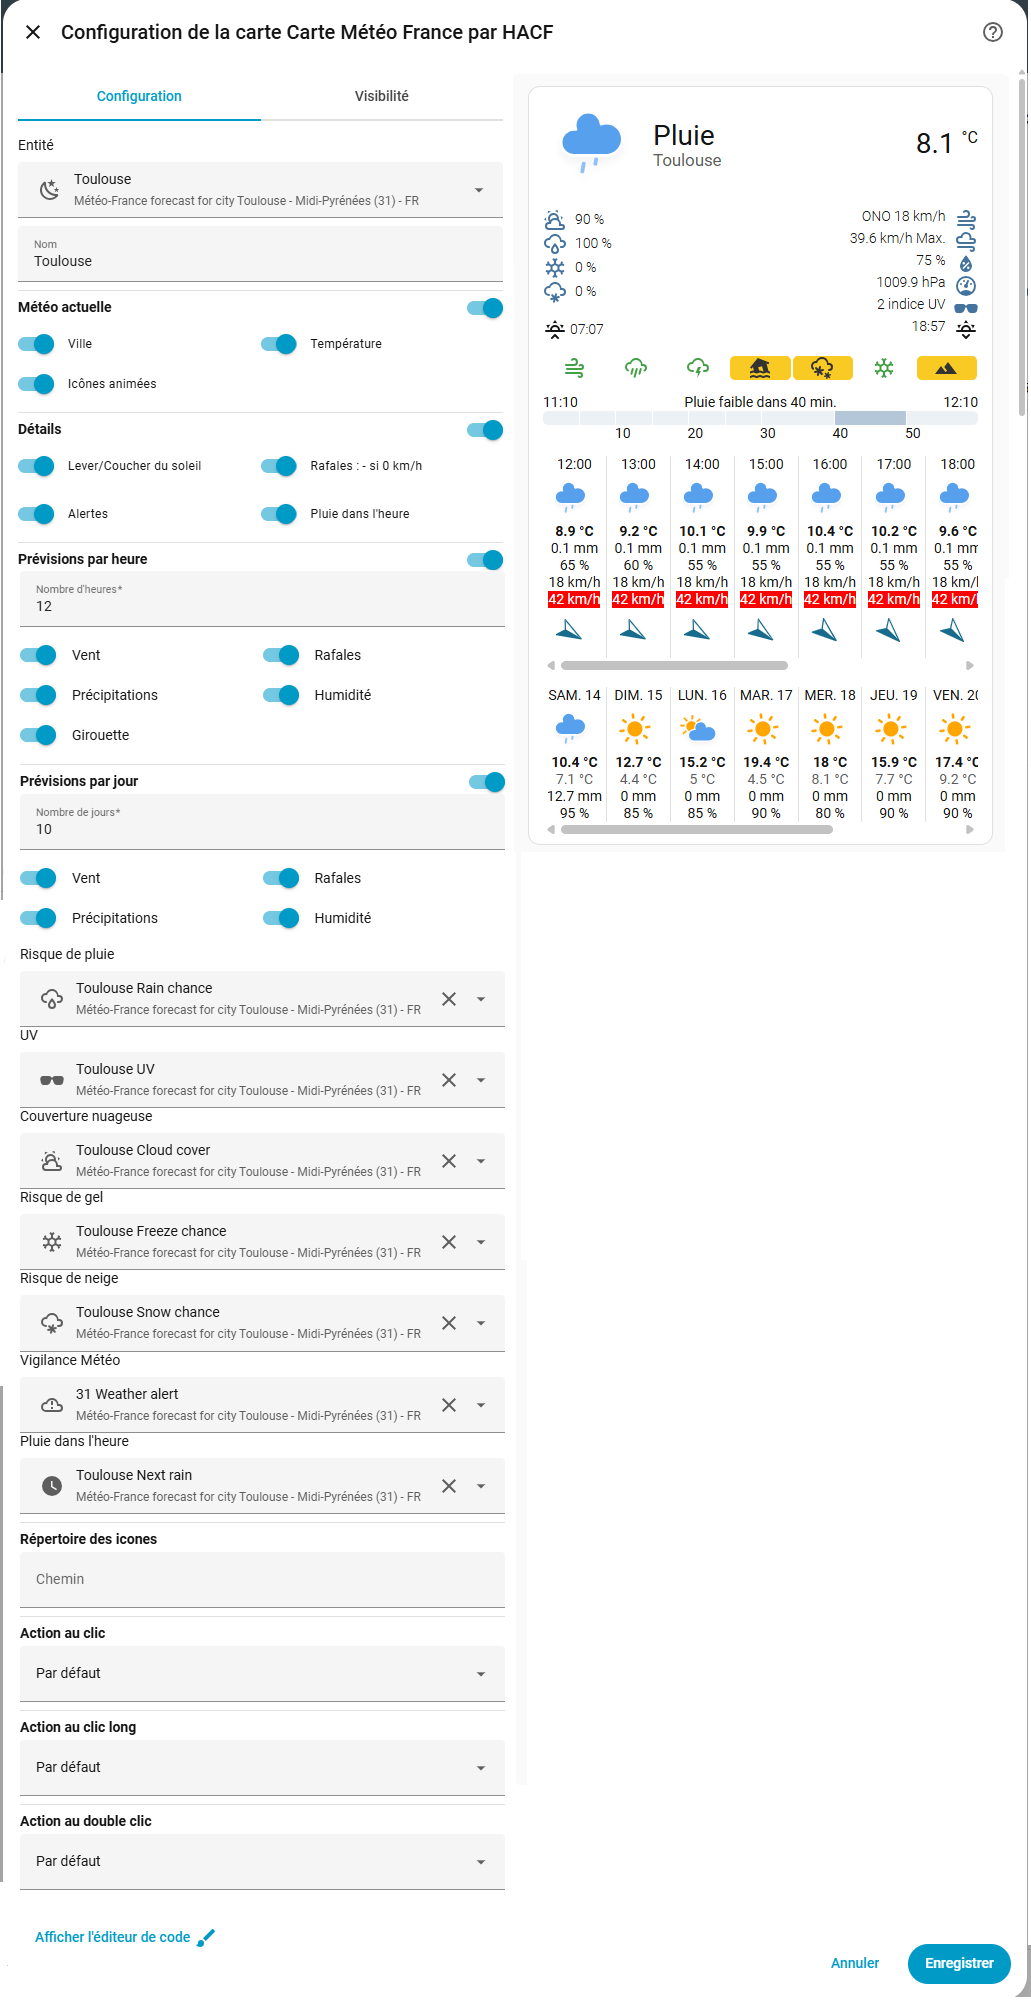
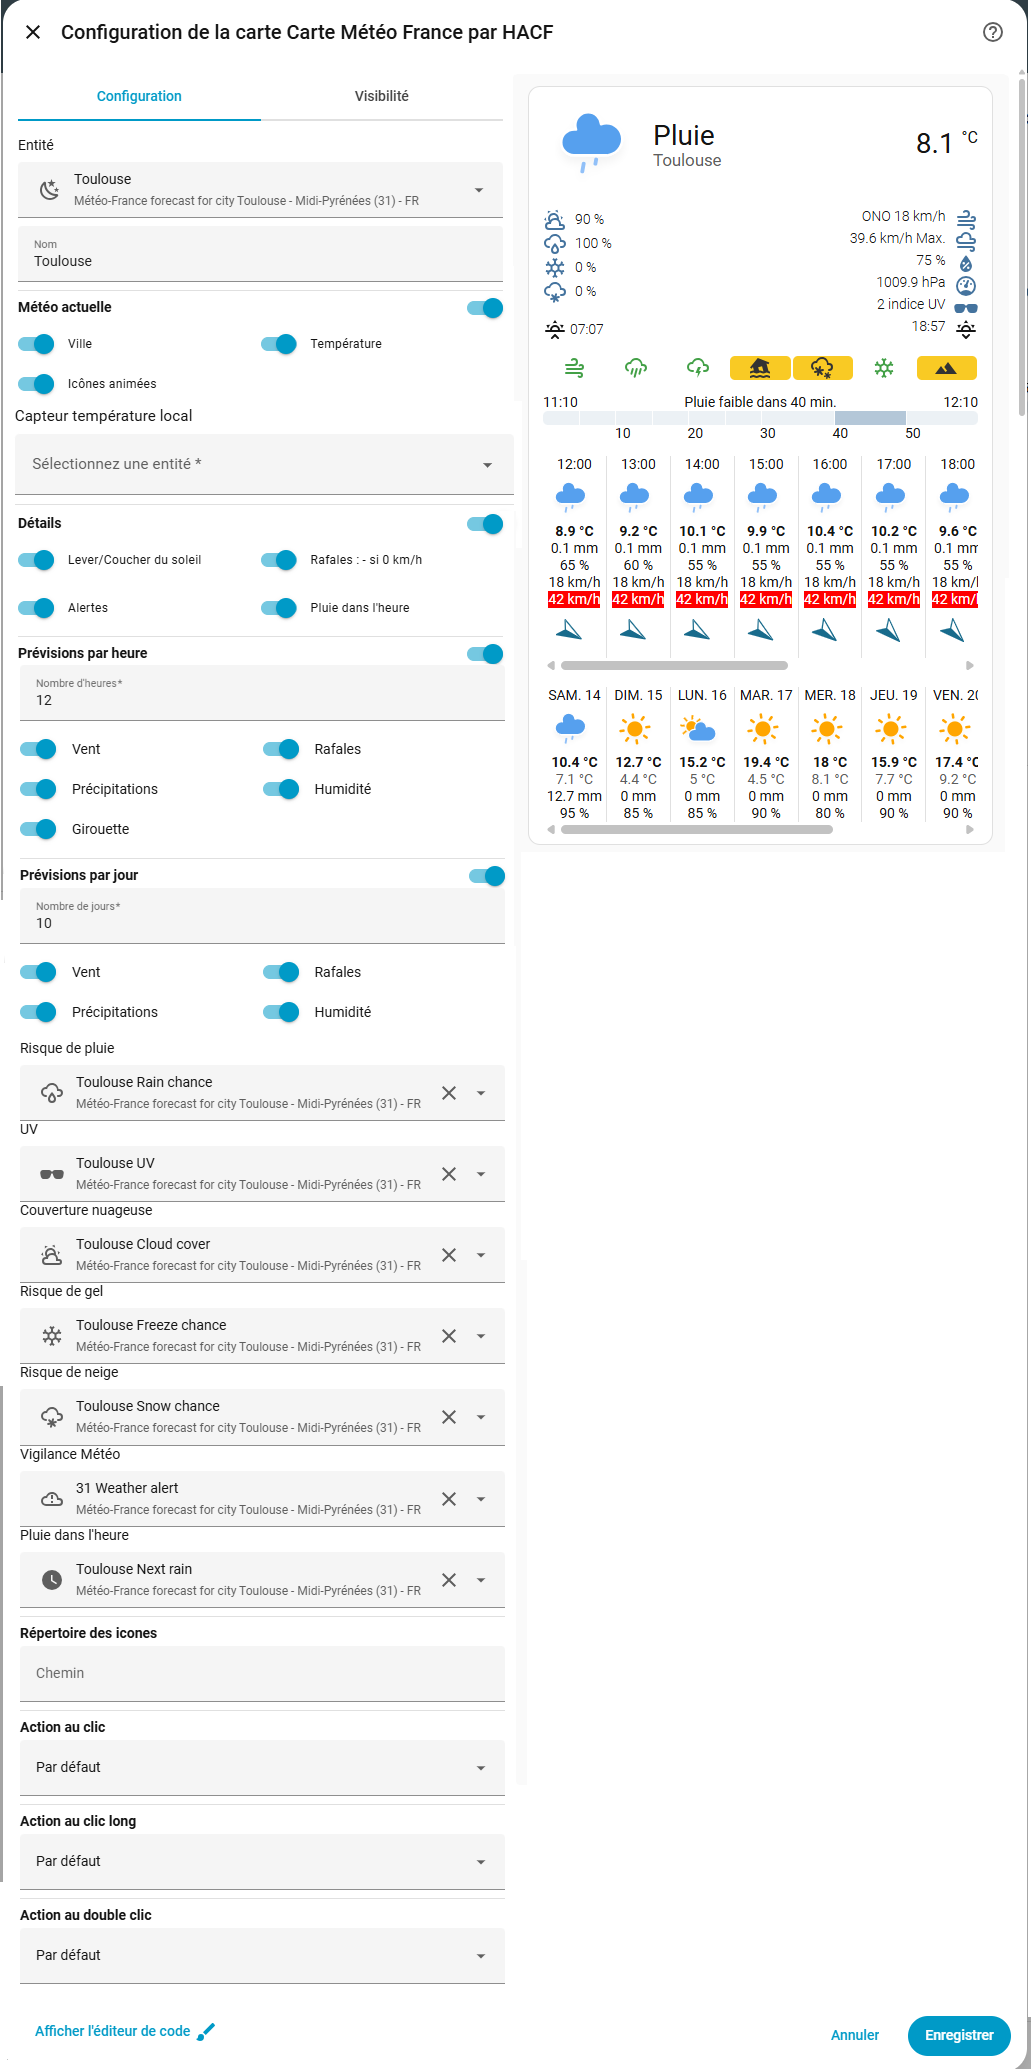
Corrections sur capteur local de température

diff --git a/dist/meteofrance-weather-card-editor.js b/dist/meteofrance-weather-card-editor.js
@@ -21,11 +21,11 @@ const editorTranslations = {
   "fr": {
     "entity": "Entité",
     "name": "Nom",
-    "detail": "Détail",
     "general": "Général",
     "currentWeather": "Météo actuelle",
     "showName": "Ville",
     "showTemperature": "Température",
+    "localTemperature": "Capteur température local",
     "details": "Détails",
     "alerts": "Alertes",
     "oneHourRain": "Pluie dans l'heure",
@@ -56,11 +56,11 @@ const editorTranslations = {
   "en": {
     "entity": "Entity",
     "name": "Name",
-    "detail": "Detail",
     "general": "General",
     "currentWeather": "Current weather",
     "showName": "City",
     "showTemperature": "Temperature",
+    "localTemperature": "Local temperature sensor",
     "details": "Details",
     "alerts": "Alerts",
     "oneHourRain": "Rain in the hour",
@@ -91,7 +91,6 @@ const editorTranslations = {
 };
 
 const DefaultSensors = new Map([
-  ["detailEntity", "_rain_chance"],
   ["cloudCoverEntity", "_cloud_cover"],
   ["rainChanceEntity", "_rain_chance"],
   ["freezeChanceEntity", "_freeze_chance"],
@@ -150,7 +149,7 @@ export class MeteofranceWeatherCardEditor extends LitElement {
   get _rainForecastEntity() { return this._config.rainForecastEntity || ""; }
   get _snowChanceEntity() { return this._config.snowChanceEntity || ""; }
   get _uvEntity() { return this._config.uvEntity || ""; }
-  get _detailEntity() { return this._config.detailEntity || ""; }
+  get _temperature_entity() { return this._config.temperature_entity || ""; }
 
   getTranslations() {
     const lang = (this.hass.language || "en").split("-")[0];
@@ -166,8 +165,7 @@ export class MeteofranceWeatherCardEditor extends LitElement {
         <div>
           ${this.renderWeatherPicker(t.entity, this._entity, "entity")}
           ${this.renderTextField(t.name, this._name, "name")}
-          ${this.renderSensorPicker(t.detail, this._detailEntity, "detailEntity")}
-          
+
           ${this.renderSectionHeader(t.currentWeather, this._current, "current")}
           ${this._current ? html`
             <div class="switches">
@@ -175,6 +173,7 @@ export class MeteofranceWeatherCardEditor extends LitElement {
               ${this.renderSwitchOption(t.showTemperature, this._show_temperature, "show_temperature")}
               ${this.renderSwitchOption(t.animatedIcons, this._animated_icons, "animated_icons")}
             </div>
+            ${this.renderSensorPicker(t.localTemperature, this._temperature_entity, "temperature_entity")}
           ` : ""}
 
           ${this.renderSectionHeader(t.details, this._details, "details")}

diff --git a/dist/meteofrance-weather-card.js b/dist/meteofrance-weather-card.js
@@ -24,7 +24,6 @@ const weatherIconsDay = {
 };
 
 const DefaultSensors = [
-  ["detailEntity", "_rain_chance"],
   ["cloudCoverEntity", "_cloud_cover"],
   ["rainChanceEntity", "_rain_chance"],
   ["freezeChanceEntity", "_freeze_chance"],
@@ -525,7 +524,7 @@ _unsubscribeDailyForecastEvents() {
           ` : ""}
           <ul>
             ${this.renderMeteoFranceDetail(
-              this.hass.states[this._config.detailEntity]
+              this.hass.states[this._config.rainChanceEntity]
             )}
           </ul>
         </li>

diff --git a/README.md b/README.md
@@ -129,7 +129,6 @@ view:
       number_of_hourly_forecasts: "5"
       number_of_daily_forecasts: "5"
       # Les entités annexes de météo france
-      detailEntity: sensor.nantes_daily_precipitation
       cloudCoverEntity: sensor.nantes_cloud_cover
       rainChanceEntity: sensor.nantes_rain_chance
       freezeChanceEntity: sensor.nantes_freeze_chance
@@ -137,11 +136,25 @@ view:
       uvEntity: sensor.nantes_uv
       rainForecastEntity: sensor.nantes_next_rain
       alertEntity: sensor.44_weather_alert
+      # Capteur température local (optionnel)
+      temperature_entity: sensor.mon_capteur_temperature
       # Chemin
       icons: /local/community/lovelace-meteofrance-weather-card/icons/
 ```
 
 #### options avancées via YAML
+
+##### Capteur température local
+
+Par défaut, la température affichée en haut de la carte provient de l'entité météo Météo-France. Il est possible de la remplacer par un capteur physique local (ex. thermomètre intérieur/extérieur) :
+
+```yaml
+temperature_entity: sensor.mon_capteur_temperature
+```
+
+Si ce champ est renseigné, la valeur du capteur local s'affiche à la place de la température Météo-France. L'unité reste celle configurée dans Home Assistant.
+
+---
 
 Ci-dessous les éléments de configuration pour masquer certains champs:
 

diff --git a/info.md b/info.md
@@ -150,7 +150,6 @@ view:
       daily_humidity: true             # Humidité dans les prévisions quotidiennes
 
       # --- Entités annexes (auto-détectées, redéfinissables) ---
-      detailEntity: sensor.nantes_daily_precipitation
       cloudCoverEntity: sensor.nantes_cloud_cover
       rainChanceEntity: sensor.nantes_rain_chance
       freezeChanceEntity: sensor.nantes_freeze_chance
@@ -158,7 +157,11 @@ view:
       uvEntity: sensor.nantes_uv
       rainForecastEntity: sensor.nantes_next_rain
       alertEntity: sensor.44_weather_alert
-      temperature_entity: sensor.nantes_temperature  # Entité température personnalisée (optionnel)
+
+      # --- Capteur température local (optionnel) ---
+      # Remplace la température Météo-France par celle d'un capteur physique local.
+      # Si non renseigné, la température provient de l'entité météo principale.
+      temperature_entity: sensor.mon_capteur_temperature
 
       # --- Chemin des icônes (optionnel) ---
       icons: /local/community/lovelace-meteofrance-weather-card/icons/
